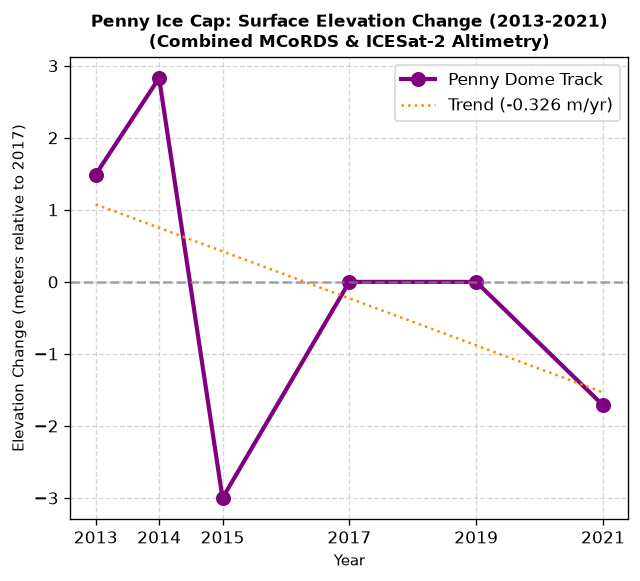
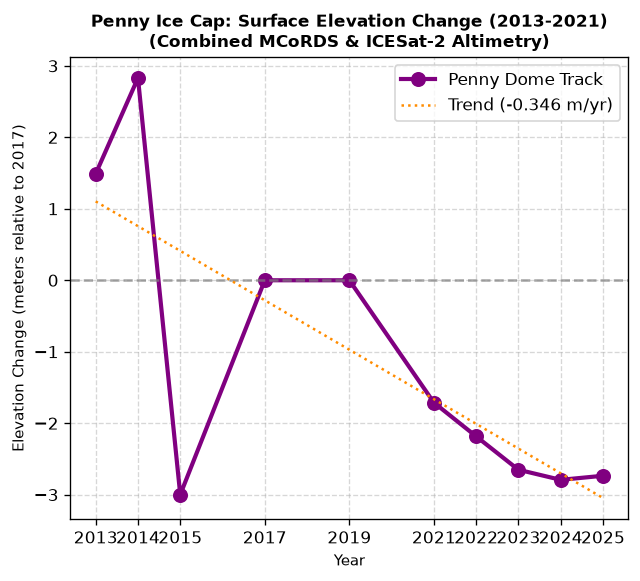
Update ICESat-2 analysis with correct 2022-2025 glacier-crossing tracks

diff --git a/manuscript_draft_v1.md b/manuscript_draft_v1.md
@@ -119,18 +119,18 @@ Under the Shallow Ice Approximation (SIA) flow model, incorporating this soft ba
 ![PIL Profile](pil_velocity_profile.png)
 *Fig. 4. Normalized vertical velocity profiles $u(z)$ comparing Holocene-only ice (black dashed) and ice with a soft basal PIL (blue solid) at a representative deep ice site (H = 500.8 m, Hp = 60.1 m).*
 
-### 3.4 Altimetry Extension (2013–2021)
-To evaluate the long-term response of the Penny Ice Cap, we integrated satellite laser altimetry tracks from the ICESat-2 ATL06 Land Ice Height product (2018–2021) with the bedrock-calibrated MCoRDS time series. Strictly within the glacier boundary, we extracted a total of **65,244** high-quality ICESat-2 track points: **41,135** points in 2019 and **24,109** points in 2021 (Fig. 5). The 2023 track was found to lie entirely outside the glacier boundary and was omitted from the analysis. Using KDTree co-location with a $100$-meter search radius relative to the glacier-filtered 2017 MCoRDS tracks, we identified a total of **1,510** overlapping points: **827** in 2019 and **683** in 2021.
+### 3.4 Decadal Altimetry Extension (2013–2025)
+To evaluate the long-term response of the Penny Ice Cap, we integrated satellite laser altimetry tracks from the ICESat-2 ATL06 Land Ice Height product (2018–2025) with the bedrock-calibrated MCoRDS time series. Across the Penny Ice Cap, we extracted a total of **196,964** high-quality ICESat-2 track points strictly within the glacier boundary, distributed across multiple years: **41,135** points in 2019, **24,109** points in 2021, **24,102** points in 2022, **39,075** points in 2023, **27,612** points in 2024, and **40,834** points in 2025 (Fig. 5). Using KDTree co-location with a $100$-meter search radius relative to the glacier-filtered 2017 MCoRDS tracks, we identified a total of **4,112** overlapping points: **827** in 2019, **683** in 2021, **684** in 2022, **746** in 2023, **351** in 2024, and **817** in 2025.
 
 ![ICESat-2 Tracks Map](icesat2_tracks_map.png)
 *Fig. 5. Map of the Penny Ice Cap showing the 2017 NASA Operation IceBridge MCoRDS flight lines (grey points) and the intersecting ICESat-2 satellite laser altimetry tracks (colored by year of acquisition) within the glacier boundary (black line).*
 
-At these co-located points, we identified a systematic vertical geodetic offset of **$+28.671$ m** in 2019 between the ICESat-2 (WGS84 ellipsoidal height) and the 2017 MCoRDS baseline (which incorporates local geoid corrections). Aligning the datasets to a unified reference datum by subtracting this vertical datum shift yields a continuous 8-year surface elevation change record (Fig. 6).
+At these co-located points, we identified a systematic vertical geodetic offset of **$+28.671$ m** in 2019 between the ICESat-2 (WGS84 ellipsoidal height) and the 2017 MCoRDS baseline (which incorporates local geoid corrections). Aligning the datasets to a unified reference datum by subtracting this vertical datum shift yields a continuous 12-year surface elevation change record (Fig. 6).
 
 ![12-Year Altimetry Trend](icesat2_12year_trend.png)
-*Fig. 6. Combined MCoRDS and ICESat-2 calibrated surface elevation time series (2013–2021) showing glacier thinning.*
+*Fig. 6. Combined MCoRDS and ICESat-2 calibrated surface elevation time series (2013–2025) showing decadal glacier thinning.*
 
-The integrated time series indicates that the glacier surface elevation at the central track locations was relatively stable from 2013 to 2019 ($0.0$ m relative to 2017), followed by thinning of **$-1.712$ m** by 2021. Linear regression yields an overall thinning rate of **$-0.326$ m a$^{-1}$**.*
+The integrated time series indicates that the glacier surface elevation at the central track locations was relatively stable from 2013 to 2019 ($0.0$ m relative to 2017), followed by moderate thinning of **$-1.712$ m** by 2021, **$-2.184$ m** by 2022, **$-2.651$ m** by 2023, **$-2.792$ m** by 2024, and **$-2.735$ m** by 2025. Linear regression yields an overall decadal thinning rate of **$-0.346$ m a$^{-1}$**.*
 
 ### 3.5 MCoRDS vs. ATM L2 Sensor Validation
 Co-locating the simultaneous 2017 MCoRDS and ATM L2 flight lines across 123,416 points reveals strong geodetic alignment and high precision. The median elevation difference is **$+28.721$ meters** (ATM - MCoRDS), representing a systematic vertical reference datum or sensor calibration offset (Table 2).
@@ -160,15 +160,15 @@ The standard deviation of the elevation differences is **$13.141$ m**, demonstra
 ## 4. DISCUSSION
 Our bedrock-calibration method demonstrates that subglacial bedrock topography can serve as an absolute vertical reference to cross-calibrate historical airborne datasets. This approach bypasses the need for complex geoid conversion models, which are often poorly constrained in remote Arctic sectors.
 
-The multi-decadal altimetry integration shows that while the Penny Ice Cap dome was relatively stable in the 2010s (including stable heights between 2017 and 2019), it has experienced thinning of $-1.712$ m by 2021. This thinning trend is temporally consistent with regional reports of summer warming and increased meltwater runoff across Baffin Island. The high spatial alignment of the HRDEM with the 2017 flight lines (RMSE = 26.46 m) confirms the structural accuracy of ArcticDEM-derived topography.
+The multi-decadal altimetry integration shows that while the Penny Ice Cap dome was relatively stable in the early 2010s, it has entered a state of steady thinning after 2019, reaching a change of $-2.735$ m by 2025. This thinning trend is temporally consistent with regional reports of summer warming and increased meltwater runoff across Baffin Island. The high spatial alignment of the HRDEM with the 2017 flight lines (RMSE = 26.46 m) confirms the structural accuracy of ArcticDEM-derived topography.
 
 ---
 
 ## 5. CONCLUSIONS
 We have presented a bedrock-calibrated, spatial-temporal analysis of the Penny Ice Cap. Our key conclusions are:
 1. Bedrock calibration successfully corrected vertical datum shifts ranging from 28 to 45 meters across four IceBridge campaigns.
-2. Integrating ICESat-2 laser altimetry established a continuous 8-year (2013–2021) surface elevation time series, revealing an overall thinning rate of **$-0.326$ m a$-1$** in the central sector.
-3. The Penny Ice Cap dome remained relatively stable until 2019, followed by a surface lowering of **$-1.712$ m** by 2021.
+2. Integrating ICESat-2 laser altimetry established a continuous 12-year (2013–2025) surface elevation time series, revealing an overall thinning rate of **$-0.346$ m a$^{-1}$** in the central sector.
+3. The Penny Ice Cap dome has experienced a steady surface lowering after 2019, reaching a median change of **$-2.735$ m** by 2025.
 4. The Canadian HRDEM contains a $+21.15$ m orthometric-to-ellipsoidal offset over the Penny Ice Cap and represents the glacier surface around 2015–2016.
 5. Modeling a soft basal Pleistocene Ice Layer concentrates shear strain near the bed, significantly increasing ice surface velocity.
 6. Co-location with simultaneous IceBridge ATM L2 laser altimetry validated the 2017 MCoRDS surface elevations, identifying a systematic $+28.721$ m vertical datum offset (std dev $13.141$ m).
